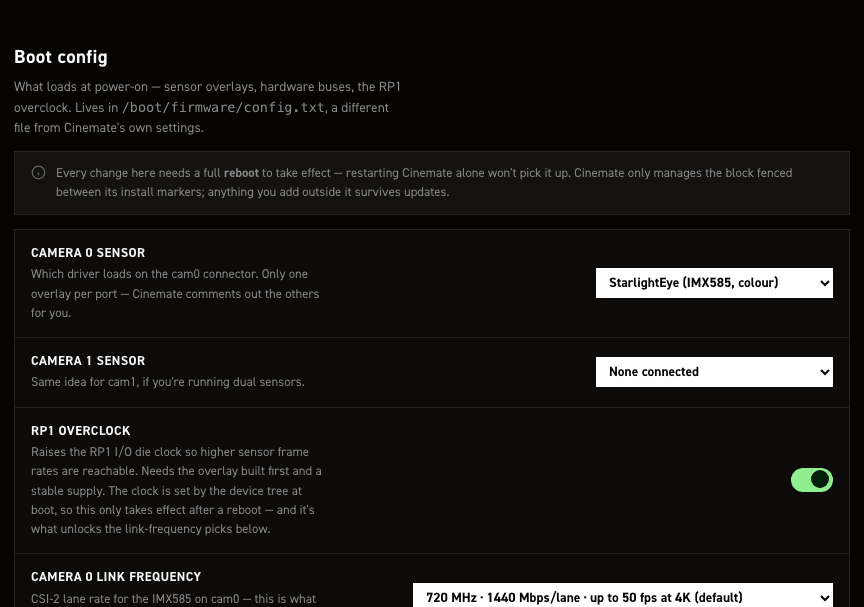
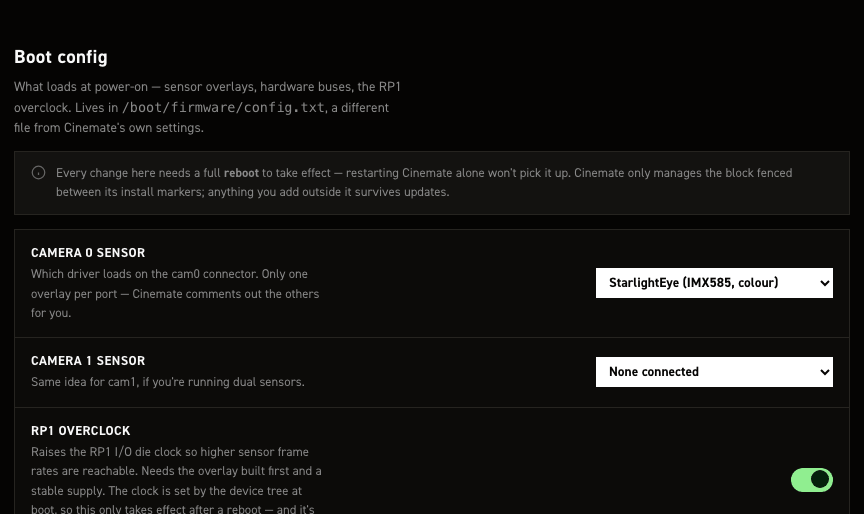
Add Playback to the pane grid, lead with config.txt, drop the captions
Five panes now, in the tab bar's own order so the grid matches what you see
on the page: config.txt, i2c, settings.jsonc, Playback, RAW files.

The settings.jsonc tile no longer carries the search bar and tab strip the
other four never had. Measured rather than eyeballed: the rule under the tabs
is the last thing in the far-right column before the content starts, so the
crop lands just below it and the tile begins at its first heading like the
rest. That changes the shared ratio to 1.681, and all five were regenerated
against it.

Captions removed; the section's opening line names the panes instead.

The Playback tile comes from the existing screenshot, which predates this
branch: it still shows the "Takes on card" label and lacks the Sort and View
controls. Headless capture cannot replace it -- the settings editor embeds
the live page in an iframe, whose MJPEG stream never ends, so the page never
reaches load-complete and Chrome times out with no file written. A fresh one
has to be taken from a real browser.

diff --git a/README.md b/README.md
@@ -120,16 +120,20 @@ GPIO buttons and switches, rotary encoders and oled display for controlling came
 
 ## The settings editor
 
-The same browser page carries the rest of the camera. Its panes, at `cinepi.local:5000/settings-editor`:
+The same browser page carries the rest of the camera, at `cinepi.local:5000/settings-editor` — `config.txt`, the i2c bus, `settings.jsonc`, Playback and the RAW files:
 
 <table>
 <tr>
-<td width="50%"><img src="docs/images/pane-settings-jsonc.png" alt="The settings.jsonc pane of the Cinemate settings editor"><br><em><strong>settings.jsonc</strong> — cameras, audio and controls, as cards rather than a text file. The sidebar jumps between sections; nothing is saved until you press Save changes.</em></td>
-<td width="50%"><img src="docs/images/pane-config-txt.png" alt="The config.txt pane of the Cinemate settings editor"><br><em><strong>config.txt</strong> — boot and sensor settings, staged and written for you. Saving here reboots immediately, with no confirm step.</em></td>
+<td width="50%"><img src="docs/images/pane-config-txt.png" alt="The config.txt pane of the Cinemate settings editor"></td>
+<td width="50%"><img src="docs/images/pane-i2c.png" alt="The i2c pane of the Cinemate settings editor"></td>
 </tr>
 <tr>
-<td width="50%"><img src="docs/images/pane-i2c.png" alt="The i2c pane of the Cinemate settings editor"><br><em><strong>i2c</strong> — what is actually on the bus right now: the Grove HAT, a quad rotary board, an OLED, a real-time clock, the CFE Hat's latch.</em></td>
-<td width="50%"><img src="docs/images/pane-raw-files.png" alt="The RAW files pane of the Cinemate settings editor"><br><em><strong>RAW files</strong> — every take across mounted storage, with its size and frame count. Download or delete them, and format the drive.</em></td>
+<td width="50%"><img src="docs/images/pane-settings-jsonc.png" alt="The settings.jsonc pane of the Cinemate settings editor"></td>
+<td width="50%"><img src="docs/images/pane-playback.png" alt="The Playback pane of the Cinemate settings editor"></td>
+</tr>
+<tr>
+<td width="50%"><img src="docs/images/pane-raw-files.png" alt="The RAW files pane of the Cinemate settings editor"></td>
+<td width="50%"></td>
 </tr>
 </table>
 
